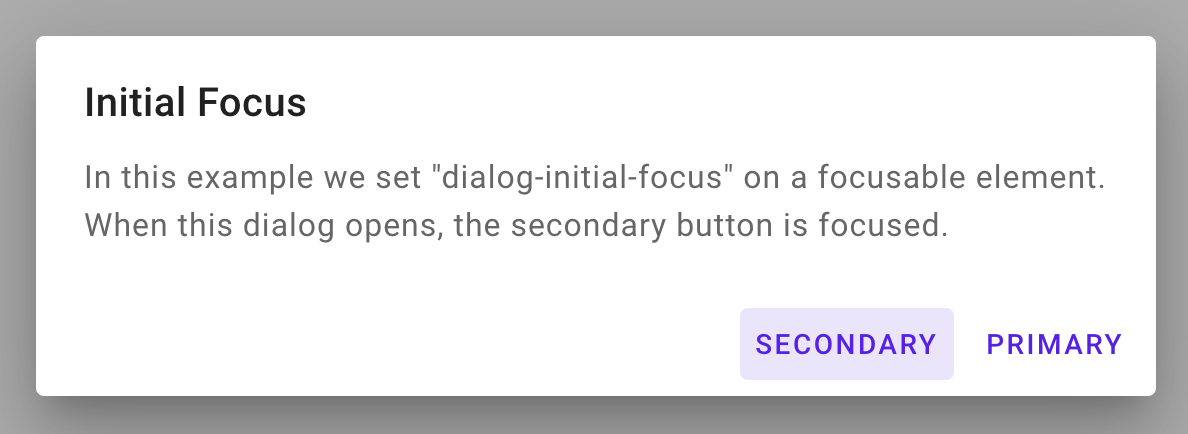
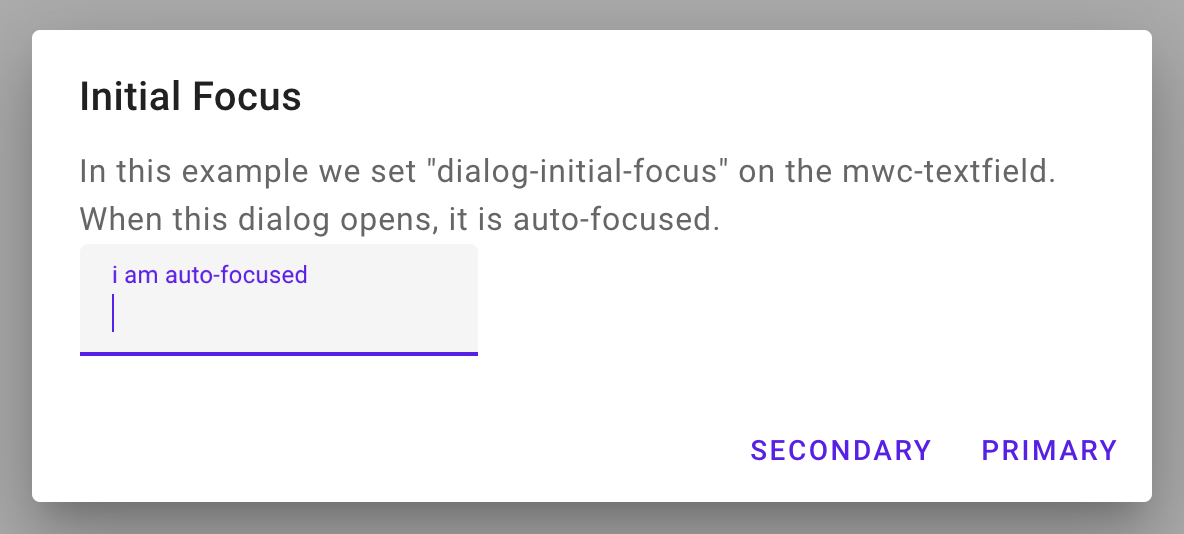
update initial focus readme example

diff --git a/demos/dialog.html b/demos/dialog.html
@@ -154,7 +154,6 @@ limitations under the License.
         When this dialog opens, it is auto-focused.
       </div>
       <mwc-textfield
-          outlined
           label="i am auto-focused"
           dialog-initial-focus>
       </mwc-textfield>

diff --git a/packages/dialog/README.md b/packages/dialog/README.md
@@ -347,32 +347,32 @@ attribute (configurable via the
 
 For example:
 
-<img src="images/initial-focus.png" width="594x">
+<img src="images/initial-focus.png" width="592px">
 
 ```html
 <mwc-dialog title="Initial Focus">
   <div>
-    In this example we set "dialog-initial-focus" on a focusable element.
-    When this dialog opens, the secondary button is focused.
+    In this example we set "dialog-initial-focus" on the mwc-textfield.
+    When this dialog opens, it is auto-focused.
   </div>
-  <mwc-button
-      slot="primaryAction"
-      dialog-action="close">
+  <mwc-textfield
+      label="i am auto-focused"
+      dialog-initial-focus>
+  </mwc-textfield>
+  <mwc-button slot="primaryAction" dialog-action="close">
     Primary
   </mwc-button>
-  <mwc-button
-      slot="secondaryAction"
-      dialog-action="close"
-      dialog-initial-focus>
+  <mwc-button slot="secondaryAction" dialog-action="close">
     Secondary
   </mwc-button>
 </mwc-dialog>
 ```
 
-In this example we set `dialog-initial-focus` on the secondary action, so
-`mwc-button.focus()` will be called on the button. This attribute can also be
-set on anything in the light DOM of `mwc-dialog`. Only one element designated
-with this attribute will be focused.
+In this example we set `dialog-initial-focus` on the `mwc-textfield`, so
+`mwc-textfield.focus()` will be called on the button. This attribute can also be
+set on anything in the light DOM of `mwc-dialog` including the primary and
+secondary actions. Only one element designated with this attribute will be
+focused.
 
 Calling `focus()` on the `mwc-dialog` itself will call `focus()` on any
 `dialog-initial-focus` element in the light DOM of `mwc-dialog`.
